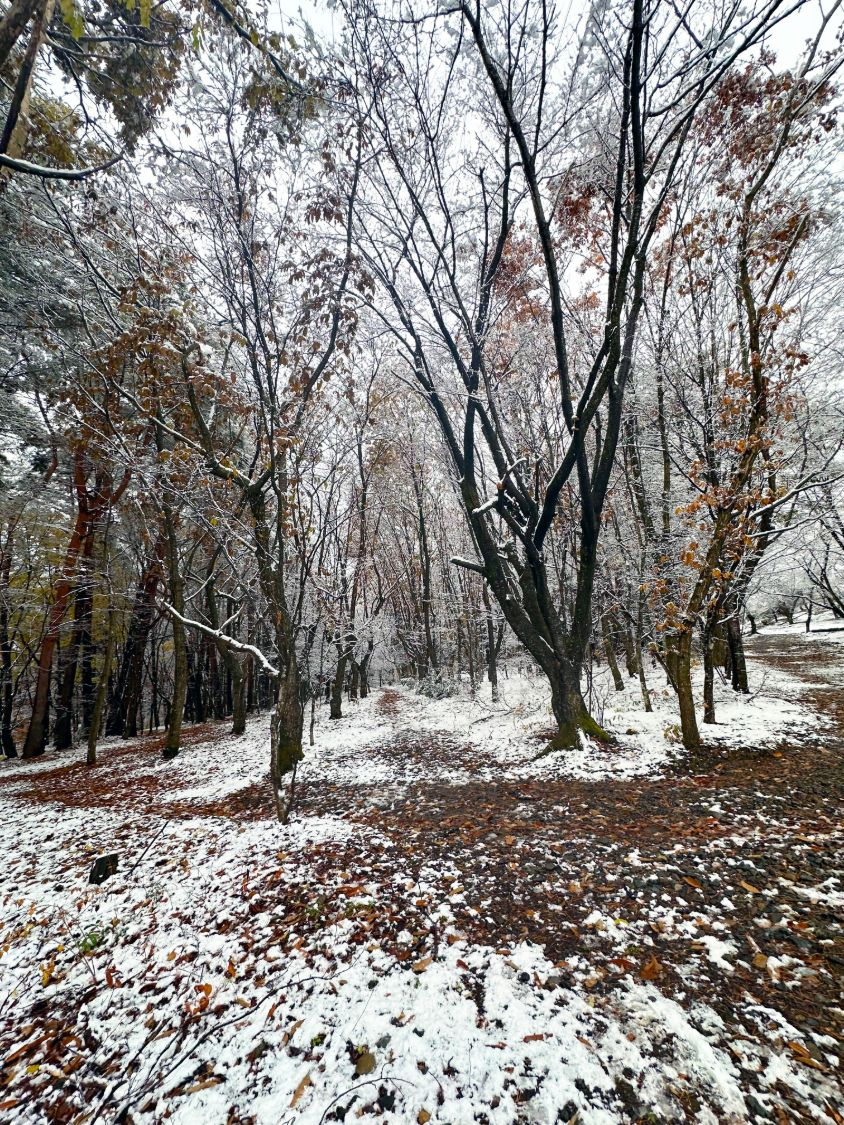
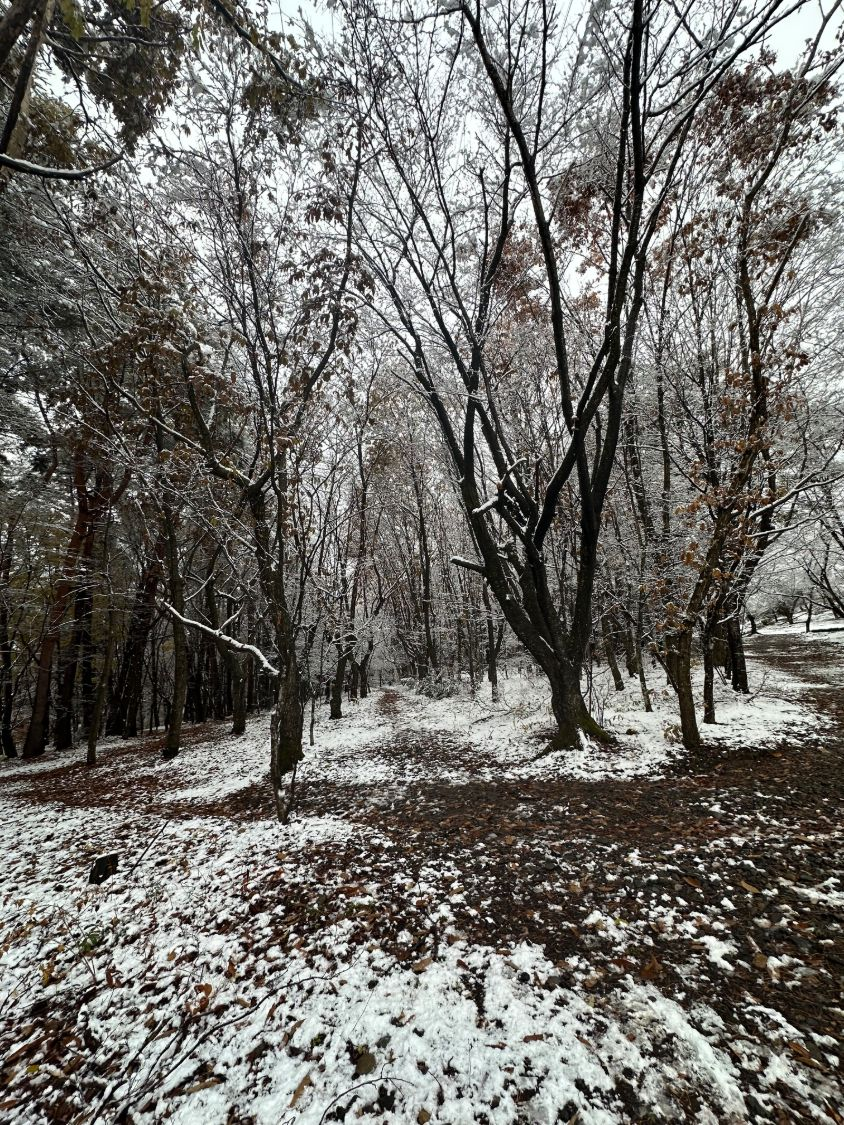
トップのメインコピーを冬の訪れに替え、定点観測を場所ごとのタブにする
- メインコピーを「初雪をまとい、森に冬が来た。ものがたりは雪の上につづく。」に変更（リード文は変えない）
- 主題の文字サイズを1行14字に収まる計算に直す（字間の分で4行に折れていた）
- 森の定点観測を「森の園路」「こもれび広場」「管理棟」のタブに分ける
  - 森の園路：11月20日 10:53（縮小版に差し替え）と11月21日 9:40 の2枚を並べて表示
  - こもれび広場（11月21日 8:59）と管理棟（11月21日 9:03）はタブから表示。横長写真は4:3で表示
  - 写真を押すと原寸の画像を別タブで開く。タブは←→キーでも切り替えられる
- 更新履歴に追加し、11月13日の項目を「過去の更新情報」へ移す
- スタイルシートの版を 20261121 に上げる

diff --git a/index.html b/index.html
@@ -6,7 +6,7 @@
 <meta name="color-scheme" content="light">
 <meta name="description" content="盛岡市都南つどいの森は、キャンプ・テニス・グラウンドゴルフ・バーベキュー・木工体験が楽しめる自然体験型の森林公園です。お花見の春から紅葉の秋まで、家族で四季を遊びつくせます。">
 <title>盛岡市都南つどいの森</title>
-<link rel="stylesheet" href="css/style.css?v=20261120">
+<link rel="stylesheet" href="css/style.css?v=20261121">
 </head>
 <body>
 
@@ -59,7 +59,7 @@
   <div class="hero-inner">
     <div class="hero-copy">
       <span class="eyebrow on-dark"><span class="dot"></span>MORIOKA TSUDOI NO MORI PARK</span>
-      <h1 class="fit-2lines">森が眠る準備に着く晩秋も、<br>ものがたりはつづく。</h1>
+      <h1 class="fit-2lines">初雪をまとい、森に冬が来た。<br>ものがたりは雪の上につづく。</h1>
       <p class="lead"><span class="lead-first">残すところあと1か月。つどいの森は紅葉が見頃です。</span>12月〜3月はキャンプ場施設をお休みします。イベント情報と「森遊びの、その先へ」で、春までお届けします。</p>
       <div class="hero-actions">
         <a class="btn btn-primary" href="price.html">料金・予約を見る</a>
@@ -67,13 +67,36 @@
       </div>
       <span class="season-badge"><svg style="width:14px;height:14px"><use href="#i-tree"/></svg>キャンプ場の営業期間は4月〜11月です</span>
     </div>
-    <!-- 森の定点観測：写真は1〜3枚まで。figure を足すと横に並び、入りきらないときは横にスクロールします -->
+    <!-- 森の定点観測：場所ごとにタブを1つ、写真の欄（teiten-row）を1つ。
+         欄の写真は新しいものを右に足す（2〜3枚は横に並び、入りきらないときは横にスクロール）。
+         横長の写真は figure に class="landscape" をつける。最初に開くタブは aria-selected="true" で、ほかの欄は hidden -->
     <div class="teiten" id="teiten">
       <p class="teiten-head"><span class="teiten-tag">森の定点観測</span>毎週2〜3回、園内の2〜3か所を巡って撮った定点写真を、ここに載せていきます。</p>
-      <div class="teiten-row">
+      <div class="teiten-tabs" role="tablist" aria-label="定点観測の場所">
+        <button type="button" role="tab" id="teiten-tab-sonro" aria-controls="teiten-sonro" aria-selected="true">森の園路</button>
+        <button type="button" role="tab" id="teiten-tab-komorebi" aria-controls="teiten-komorebi" aria-selected="false" tabindex="-1">こもれび広場</button>
+        <button type="button" role="tab" id="teiten-tab-kanritou" aria-controls="teiten-kanritou" aria-selected="false" tabindex="-1">管理棟</button>
+      </div>
+      <div class="teiten-row" role="tabpanel" id="teiten-sonro" aria-labelledby="teiten-tab-sonro">
         <figure>
-          <div class="hero-photo"><img src="img/teiten/20261120-1053.jpg" alt="うっすらと雪をかぶった木々と、落ち葉の上に雪が積もった園路" width="844" height="1125"></div>
+          <a class="hero-photo" href="img/teiten/20261120-1053.jpg" target="_blank" rel="noopener"><img src="img/teiten/20261120-1053.jpg" alt="うっすらと雪をかぶった木々と、落ち葉の上に雪が積もった園路" width="844" height="1125"></a>
           <figcaption>2026年11月20日 10:53AM撮影 初めて積雪が見られたつどいの森です</figcaption>
+        </figure>
+        <figure>
+          <a class="hero-photo" href="img/teiten/20261121-0940.jpg" target="_blank" rel="noopener"><img src="img/teiten/20261121-0940.jpg" alt="枝の先まで雪をかぶった木々と、一面の雪に覆われた園路" width="1125" height="1500"></a>
+          <figcaption>2026年11月21日 9:40AM撮影 雪がさらに積もったつどいの森です</figcaption>
+        </figure>
+      </div>
+      <div class="teiten-row" role="tabpanel" id="teiten-komorebi" aria-labelledby="teiten-tab-komorebi" hidden>
+        <figure class="landscape">
+          <a class="hero-photo" href="img/teiten/20261121-0859.jpg" target="_blank" rel="noopener"><img src="img/teiten/20261121-0859.jpg" alt="一面の雪に覆われたこもれび広場を高台から見下ろした眺め。奥に雪をかぶった松林と青空が広がる" width="2000" height="1500" loading="lazy"></a>
+          <figcaption>2026年11月21日 8:59AM撮影 雪に覆われたこもれび広場です</figcaption>
+        </figure>
+      </div>
+      <div class="teiten-row" role="tabpanel" id="teiten-kanritou" aria-labelledby="teiten-tab-kanritou" hidden>
+        <figure class="landscape">
+          <a class="hero-photo" href="img/teiten/20261121-0903.jpg" target="_blank" rel="noopener"><img src="img/teiten/20261121-0903.jpg" alt="屋根に雪が積もった管理棟と、雪をかぶった松の木々。朝の日差しが差しこむ" width="1500" height="1125" loading="lazy"></a>
+          <figcaption>2026年11月21日 9:03AM撮影 屋根に雪が積もったつどいの森管理棟です</figcaption>
         </figure>
       </div>
     </div>
@@ -355,15 +378,16 @@
     </div>
     <!-- 新しい順に5件まで。6件目以降は下の「過去の更新情報」へ移す -->
     <div class="update-list">
+      <div class="update-item"><time>2026.11.21</time><span>トップページのメインコピーを「初雪をまとい、森に冬が来た。ものがたりは雪の上につづく。」に変更。「森の定点観測」に11月21日の写真を加え、森の園路の11月20日と21日を並べて見比べられるようにしました。こもれび広場と管理棟の雪景色も、場所のタブから見られます</span></div>
       <div class="update-item"><time>2026.11.20</time><span>トップページで「森の定点観測」を開始。メイン写真を紅葉の園路から、初めて積雪が見られた11月20日の森の写真（撮影日時のキャプションつき）に差し替えました。これから毎週2〜3回、園内の2〜3か所の定点写真を掲載します。お知らせにもこの企画を掲載</span></div>
       <div class="update-item"><time>2026.11.18</time><span>コラム「土砂の帳じりは、合うのか」を掲載。11月15日の研修会で出た「山から削られた土砂と、ふもとにたまった土砂の量は釣り合うのか」という疑問に、国土地理院の標高データで答えます（断面図、車窓の動画、収支の計算器つき）</span></div>
       <div class="update-item"><time>2026.11.15</time><span>イベント情報に「タイサンボクの葉っぱの金継ぎ」を開催済みとして掲載（当日の作業の流れと作品の写真、継ぎ目を見どころにする金継ぎの考え方、グリセリンで葉がやわらかくなるわけつき）。お知らせの先頭をこの催しに差し替え</span></div>
       <div class="update-item"><time>2026.11.14</time><span>コラム「つどいの森は、なぜ平らなのか」を改訂。冒頭に結論を置き、旧花巻断層から最後の大きな土石流、2013年の豪雨までを、赤色立体地図の上のアニメーションでたどれるようにしました。11月13日に載せたアニメーションと「想定」の節は、内容に誤りがあったため取り下げました</span></div>
-      <div class="update-item"><time>2026.11.13</time><span>コラム「消えた山の、底を歩く」を全面改稿。北と南のふたつのカルデラの形成順と景観の違いを軸に組み直し、歴代山行のGPSトラックを重ねた地質図、当日の動画とGPSの3D再生、女岳1970年噴火と現在の火口の対比を加え、写真を筆者のキャプションつきで一新しました</span></div>
     </div>
     <details class="update-archive">
       <summary>過去の更新情報</summary>
       <div class="update-list">
+        <div class="update-item"><time>2026.11.13</time><span>コラム「消えた山の、底を歩く」を全面改稿。北と南のふたつのカルデラの形成順と景観の違いを軸に組み直し、歴代山行のGPSトラックを重ねた地質図、当日の動画とGPSの3D再生、女岳1970年噴火と現在の火口の対比を加え、写真を筆者のキャプションつきで一新しました</span></div>
         <div class="update-item"><time>2026.11.11</time><span>コラム「消えた山の、底を歩く」を掲載。9月20日に秋田駒ヶ岳の南カルデラを国見温泉から歩いた山行を、地質図と写真でたどります。イベント情報のグラウンドゴルフ日程とお知らせから、中止になった11月5日のつどりんピックを削除</span></div>
         <div class="update-item"><time>2026.11.9</time><span>イベント情報に「きこりのロウソク、スウェーデントーチを作ろう」を開催済みとして掲載（当日の動画と写真、作り方のPDF、燃え残りの柱に並んだ横の線のしくみつき）。お知らせの先頭をこの催しに差し替え</span></div>
         <div class="update-item"><time>2026.11.7</time><span>コラム「奪われた谷に、道が通る」を全面改稿。河川争奪の説明と結論を冒頭に置き、色分けした地図で順番に読み解く構成にしました</span></div>
@@ -462,6 +486,29 @@ var COUNTER_API = '';
       }
     })
     .catch(function(){ /* 取得できないときは何も表示しない */ });
+})();
+
+/* 森の定点観測：場所のタブを切り替える（←→キーでも移動できる） */
+(function(){
+  var tabs = [].slice.call(document.querySelectorAll('.teiten-tabs [role="tab"]'));
+  function select(tab, focus){
+    tabs.forEach(function(t){
+      var on = t === tab;
+      t.setAttribute('aria-selected', on ? 'true' : 'false');
+      t.tabIndex = on ? 0 : -1;
+      document.getElementById(t.getAttribute('aria-controls')).hidden = !on;
+    });
+    if (focus) tab.focus();
+  }
+  tabs.forEach(function(t, i){
+    t.addEventListener('click', function(){ select(t); });
+    t.addEventListener('keydown', function(e){
+      var d = e.key === 'ArrowRight' ? 1 : e.key === 'ArrowLeft' ? -1 : 0;
+      if (!d) return;
+      e.preventDefault();
+      select(tabs[(i + d + tabs.length) % tabs.length], true);
+    });
+  });
 })();
 
 /* 掲載期間の管理

diff --git a/css/style.css b/css/style.css
@@ -182,11 +182,12 @@ section.tight{padding:44px 0;}
 .hero-copy h1{font-size:clamp(2rem,4.6vw,3.1rem);margin-top:14px;color:var(--paper);}
 .hero-copy .lead{margin-top:16px;color:color-mix(in srgb, var(--paper) 82%, transparent);max-width:46ch;font-size:1.05rem;}
 /* 長めの主題を2行・副題の1文目を1行に収める（文字欄の幅から文字サイズを算出） */
-.hero-copy h1.fit-2lines{font-size:min(2.5rem, calc((min(100vw,1080px) - 88px) * .55 / 14));}
+/* 主題は1行14字まで（字間と句読点のぶら下げ分の余裕を見て15字で割る） */
+.hero-copy h1.fit-2lines{font-size:min(2.5rem, calc((min(100vw,1080px) - 88px) * .55 / 15));}
 .hero-copy .lead:has(.lead-first){max-width:none;}
 .hero-copy .lead .lead-first{display:block;white-space:nowrap;font-size:min(1.05rem, calc((min(100vw,1080px) - 88px) * .55 / 26));}
 @media (max-width:820px){
-  .hero-copy h1.fit-2lines{font-size:min(2rem, calc((100vw - 48px) / 14));}
+  .hero-copy h1.fit-2lines{font-size:min(2rem, calc((100vw - 48px) / 15));}
   .hero-copy .lead .lead-first{font-size:min(1.05rem, calc((100vw - 48px) / 26));}
 }
 .hero-actions{display:flex;gap:12px;margin-top:28px;flex-wrap:wrap;}
@@ -199,11 +200,23 @@ section.tight{padding:44px 0;}
   display:inline-block;margin-right:8px;padding:2px 10px;border-radius:999px;
   background:var(--amber-500);color:var(--forest-900);font-size:.74rem;font-weight:800;vertical-align:1px;
 }
+.teiten-tabs{display:flex;flex-wrap:wrap;gap:6px;margin-bottom:12px;}
+.teiten-tabs [role="tab"]{
+  font:inherit;font-size:.8rem;font-weight:700;line-height:1.4;padding:6px 14px;border-radius:999px;cursor:pointer;
+  background:transparent;color:color-mix(in srgb, var(--paper) 86%, transparent);
+  border:1px solid color-mix(in srgb, var(--paper) 35%, transparent);
+}
+.teiten-tabs [role="tab"]:hover{border-color:var(--paper);}
+.teiten-tabs [role="tab"][aria-selected="true"]{background:var(--paper);color:var(--forest-900);border-color:var(--paper);}
+.teiten-tabs [role="tab"]:focus-visible{outline:2px solid var(--amber-500);outline-offset:2px;}
+.teiten-row[hidden]{display:none;}
 .teiten-row{display:flex;gap:12px;overflow-x:auto;scroll-snap-type:x mandatory;scrollbar-width:thin;
   scrollbar-color:color-mix(in srgb, var(--paper) 40%, transparent) transparent;padding-bottom:4px;}
-.teiten-row figure{flex:1 0 200px;margin:0;scroll-snap-align:start;}
+.teiten-row figure{flex:1 0 130px;margin:0;scroll-snap-align:start;}
+.teiten-row a.hero-photo{display:block;}
 .teiten-row .hero-photo img{height:auto;aspect-ratio:3/4;}
-.teiten-row figure:only-child .hero-photo img{aspect-ratio:auto;height:380px;object-position:50% 60%;}
+.teiten-row figure.landscape .hero-photo img{aspect-ratio:4/3;}
+.teiten-row figure:only-child:not(.landscape) .hero-photo img{aspect-ratio:auto;height:380px;object-position:50% 60%;}
 .teiten-row figcaption{margin-top:8px;font-size:.78rem;line-height:1.6;color:color-mix(in srgb, var(--paper) 82%, transparent);}
 .season-badge{
   display:inline-flex;align-items:center;gap:8px;background:color-mix(in srgb, var(--paper) 14%, transparent);

diff --git a/column-dosha-shushi.html b/column-dosha-shushi.html
@@ -6,7 +6,7 @@
 <meta name="color-scheme" content="light">
 <meta name="description" content="赤林山の谷から削られた土砂と、つどいの森のふもとにたまった土砂。その量は釣り合うのか。研修会で出た疑問に、国土地理院の標高データで答えます。断面図、車窓の動画、収支の計算器つき。土砂を生んだ花巻断層が温泉の通り道にもなっている仕組みも紹介します。">
 <title>土砂の帳じりは、合うのか | 森遊びの、その先へ | 盛岡市都南つどいの森</title>
-<link rel="stylesheet" href="css/style.css?v=20261120">
+<link rel="stylesheet" href="css/style.css?v=20261121">
 <style>
 .dz-fig{background:#fff;border:1px solid var(--line);border-radius:16px;padding:14px 10px 10px;}
 .dz-svg{display:block;width:100%;height:auto;max-width:620px;margin:0 auto;font-family:var(--font-jp);}

diff --git a/column-akikoma.html b/column-akikoma.html
@@ -6,7 +6,7 @@
 <meta name="color-scheme" content="light">
 <meta name="description" content="秋田駒ヶ岳の南カルデラを、国見温泉から一日かけて歩いた記録。北と南ふたつのカルデラの形成順と景観の違い、黒い斜面のコマクサ、1970年の女岳の噴火と現在の火口を、地質図と写真と動画でたどります。">
 <title>消えた山の、底を歩く | 森遊びの、その先へ | 盛岡市都南つどいの森</title>
-<link rel="stylesheet" href="css/style.css?v=20261120">
+<link rel="stylesheet" href="css/style.css?v=20261121">
 <style>
 .akikoma-map{max-width:620px;margin-left:auto;margin-right:auto;}
 .akikoma-map svg{display:block;width:100%;height:auto;border-radius:16px;border:1px solid var(--line);box-shadow:var(--shadow);}

diff --git a/event-happa-kintsugi.html b/event-happa-kintsugi.html
@@ -6,7 +6,7 @@
 <meta name="color-scheme" content="light">
 <meta name="description" content="森のトリセツ「タイサンボクの葉っぱの金継ぎ」。11月14日(土)に都南老人福祉センターで開催しました。当日の動画と作業の流れ、作品、継ぎ目を見どころとして見せる金継ぎの考え方、グリセリンで葉がやわらかくなるわけを紹介します。">
 <title>タイサンボクの葉っぱの金継ぎ | イベント情報 | 盛岡市都南つどいの森</title>
-<link rel="stylesheet" href="css/style.css?v=20261120">
+<link rel="stylesheet" href="css/style.css?v=20261121">
 <style>
 .kin-row{display:flex;flex-wrap:wrap;gap:18px;align-items:flex-start;}
 .kin-row > *{flex:1 1 240px;min-width:0;max-width:380px;}

diff --git a/event-swedish-torch.html b/event-swedish-torch.html
@@ -6,7 +6,7 @@
 <meta name="color-scheme" content="light">
 <meta name="description" content="大人のあかばやし探検隊「きこりのロウソク、スウェーデントーチを作ろう」。11月7日(土)に開催しました。当日の動画と写真、作り方のPDF、燃え残りの柱に並んだ横の線（炭化割れ）のしくみを掲載しています。">
 <title>きこりのロウソク、スウェーデントーチを作ろう | イベント情報 | 盛岡市都南つどいの森</title>
-<link rel="stylesheet" href="css/style.css?v=20261120">
+<link rel="stylesheet" href="css/style.css?v=20261121">
 <style>
 .torch-row{display:flex;flex-wrap:wrap;gap:18px;align-items:flex-start;}
 .torch-row > *{flex:1 1 240px;min-width:0;max-width:380px;}

diff --git a/event-sugakurayama.html b/event-sugakurayama.html
@@ -6,7 +6,7 @@
 <meta name="color-scheme" content="light">
 <meta name="description" content="大人のあかばやし探検隊「志波三山地域の最高峰須賀倉山に登る」。10月31日(土)に開催しました。登山道のない須賀倉山へ。当日の写真集と、事前の資料に使った畑台牧野から望む和賀山塊のパノラマを掲載しています。">
 <title>志波三山地域の最高峰須賀倉山に登る | イベント情報 | 盛岡市都南つどいの森</title>
-<link rel="stylesheet" href="css/style.css?v=20261120">
+<link rel="stylesheet" href="css/style.css?v=20261121">
 </head>
 <body>
 

diff --git a/column-nansho-1.html b/column-nansho-1.html
@@ -6,7 +6,7 @@
 <meta name="color-scheme" content="light">
 <meta name="description" content="南昌山・矢巾温泉250mから山頂848mまで、歩きながら記録した広葉樹60種。ブナが350m付近から現れること、中腹でいちばん種類が多いこと、森に残る人の手のあとを、高度分布模式図と標高別植生表から読みます。">
 <title>ブナは、標高350メートルで現れる | 森遊びの、その先へ | 盛岡市都南つどいの森</title>
-<link rel="stylesheet" href="css/style.css?v=20261120">
+<link rel="stylesheet" href="css/style.css?v=20261121">
 </head>
 <body>
 

diff --git a/torisetsu-sansai.html b/torisetsu-sansai.html
@@ -6,7 +6,7 @@
 <meta name="color-scheme" content="light">
 <meta name="description" content="タラノメ、コシアブラ、フキノトウ、ワサビ、シドケ、アイコ、ゼンマイ、ワラビなど、春に採れる山菜と食べられる草を生える場所ごとにまとめた「森遊びの取説」45。ニリンソウとオクトリカブトの注意点つき。">
 <title>春に採れる山菜や食べられる草 | 森遊びの取説 | 盛岡市都南つどいの森</title>
-<link rel="stylesheet" href="css/style.css?v=20261120">
+<link rel="stylesheet" href="css/style.css?v=20261121">
 </head>
 <body>
 

diff --git a/event-hakogamori.html b/event-hakogamori.html
@@ -6,7 +6,7 @@
 <meta name="color-scheme" content="light">
 <meta name="description" content="森を愉しむワークショップ「熱水変質帯のナメ沢登りで行く箱ヶ森」。10月4日(日)開催。矢櫃川滝ノ沢を沢登りして箱ヶ森へ。昨年の実走トラック、赤色立体地図によるルート図、3D動画で紹介します。">
 <title>熱水変質帯のナメ沢登りで行く箱ヶ森 | イベント情報 | 盛岡市都南つどいの森</title>
-<link rel="stylesheet" href="css/style.css?v=20261120">
+<link rel="stylesheet" href="css/style.css?v=20261121">
 </head>
 <body>
 

diff --git a/column-akudosawa.html b/column-akudosawa.html
@@ -6,7 +6,7 @@
 <meta name="color-scheme" content="light">
 <meta name="description" content="川が、となりの川の水を横取りする「河川争奪」。西和賀町の安久登沢で起きたこの事件を、色分けした地形図で順番に解いていきます。水を奪われた広い谷には、いま高速道路が通っています。">
 <title>奪われた谷に、道が通る | 森遊びの、その先へ | 盛岡市都南つどいの森</title>
-<link rel="stylesheet" href="css/style.css?v=20261120">
+<link rel="stylesheet" href="css/style.css?v=20261121">
 </head>
 <body>
 

diff --git a/column-chikei.html b/column-chikei.html
@@ -6,7 +6,7 @@
 <meta name="color-scheme" content="light">
 <meta name="description" content="つどいの森のキャンプ場は、なぜ山のふもとなのに平らなのか。赤林山から流れ下った土砂、山を押し上げた花巻断層、沢にできた自然のダムまで、この土地の生い立ちをたどります。">
 <title>つどいの森は、なぜ平らなのか | 森遊びの、その先へ | 盛岡市都南つどいの森</title>
-<link rel="stylesheet" href="css/style.css?v=20261120">
+<link rel="stylesheet" href="css/style.css?v=20261121">
 </head>
 <body>
 
